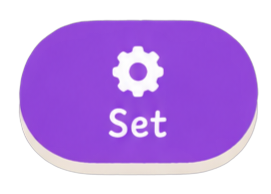
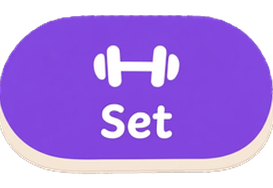
Update start and set button assets

Changed region(s): [[0.0, 0.0798, 1.0, 0.9309], [0.3247, 0.2128, 0.679, 0.5053], [0.3542, 0.5319, 0.6494, 0.7447]]

diff --git a/App.js b/App.js
@@ -157,12 +157,10 @@ const styles = StyleSheet.create({
     fontSize: 22,
     fontWeight: '800',
     position: 'absolute',
-    top: 0,
+    top: 8,
     left: 0,
     right: 0,
-    bottom: 0,
     textAlign: 'center',
-    textAlignVertical: 'center',
   },
   setLabelImg: {
     width: 140,
